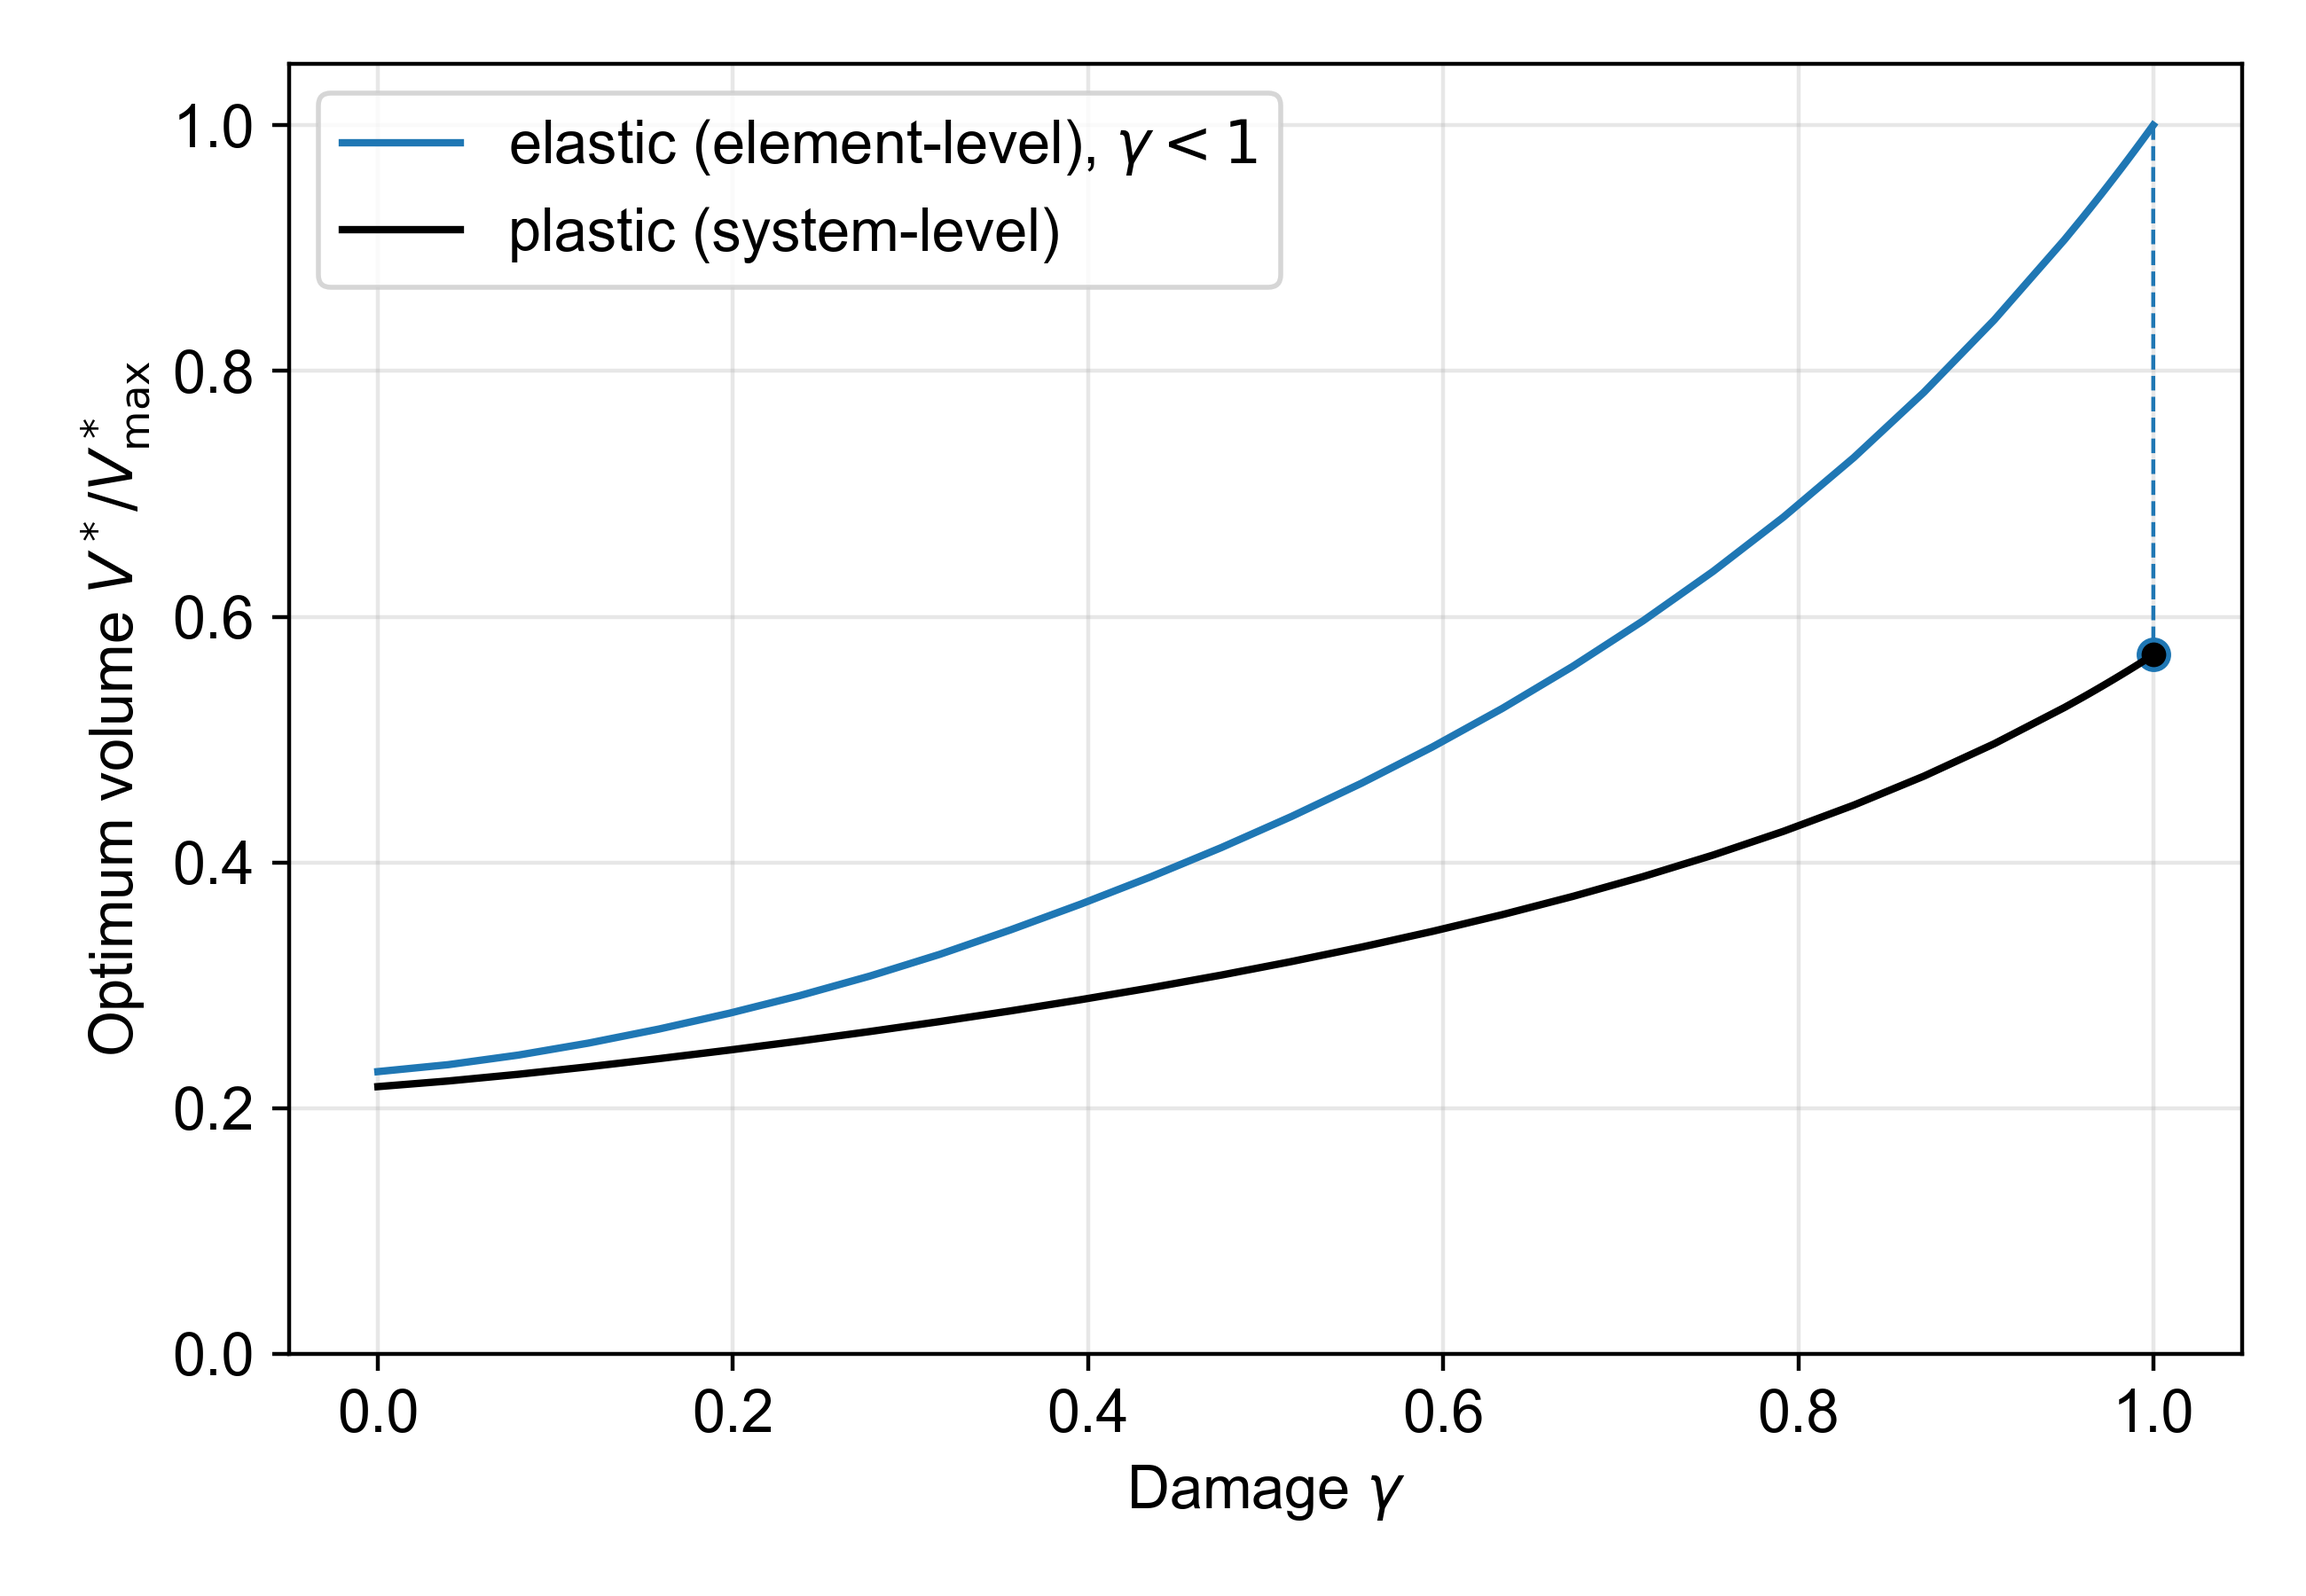
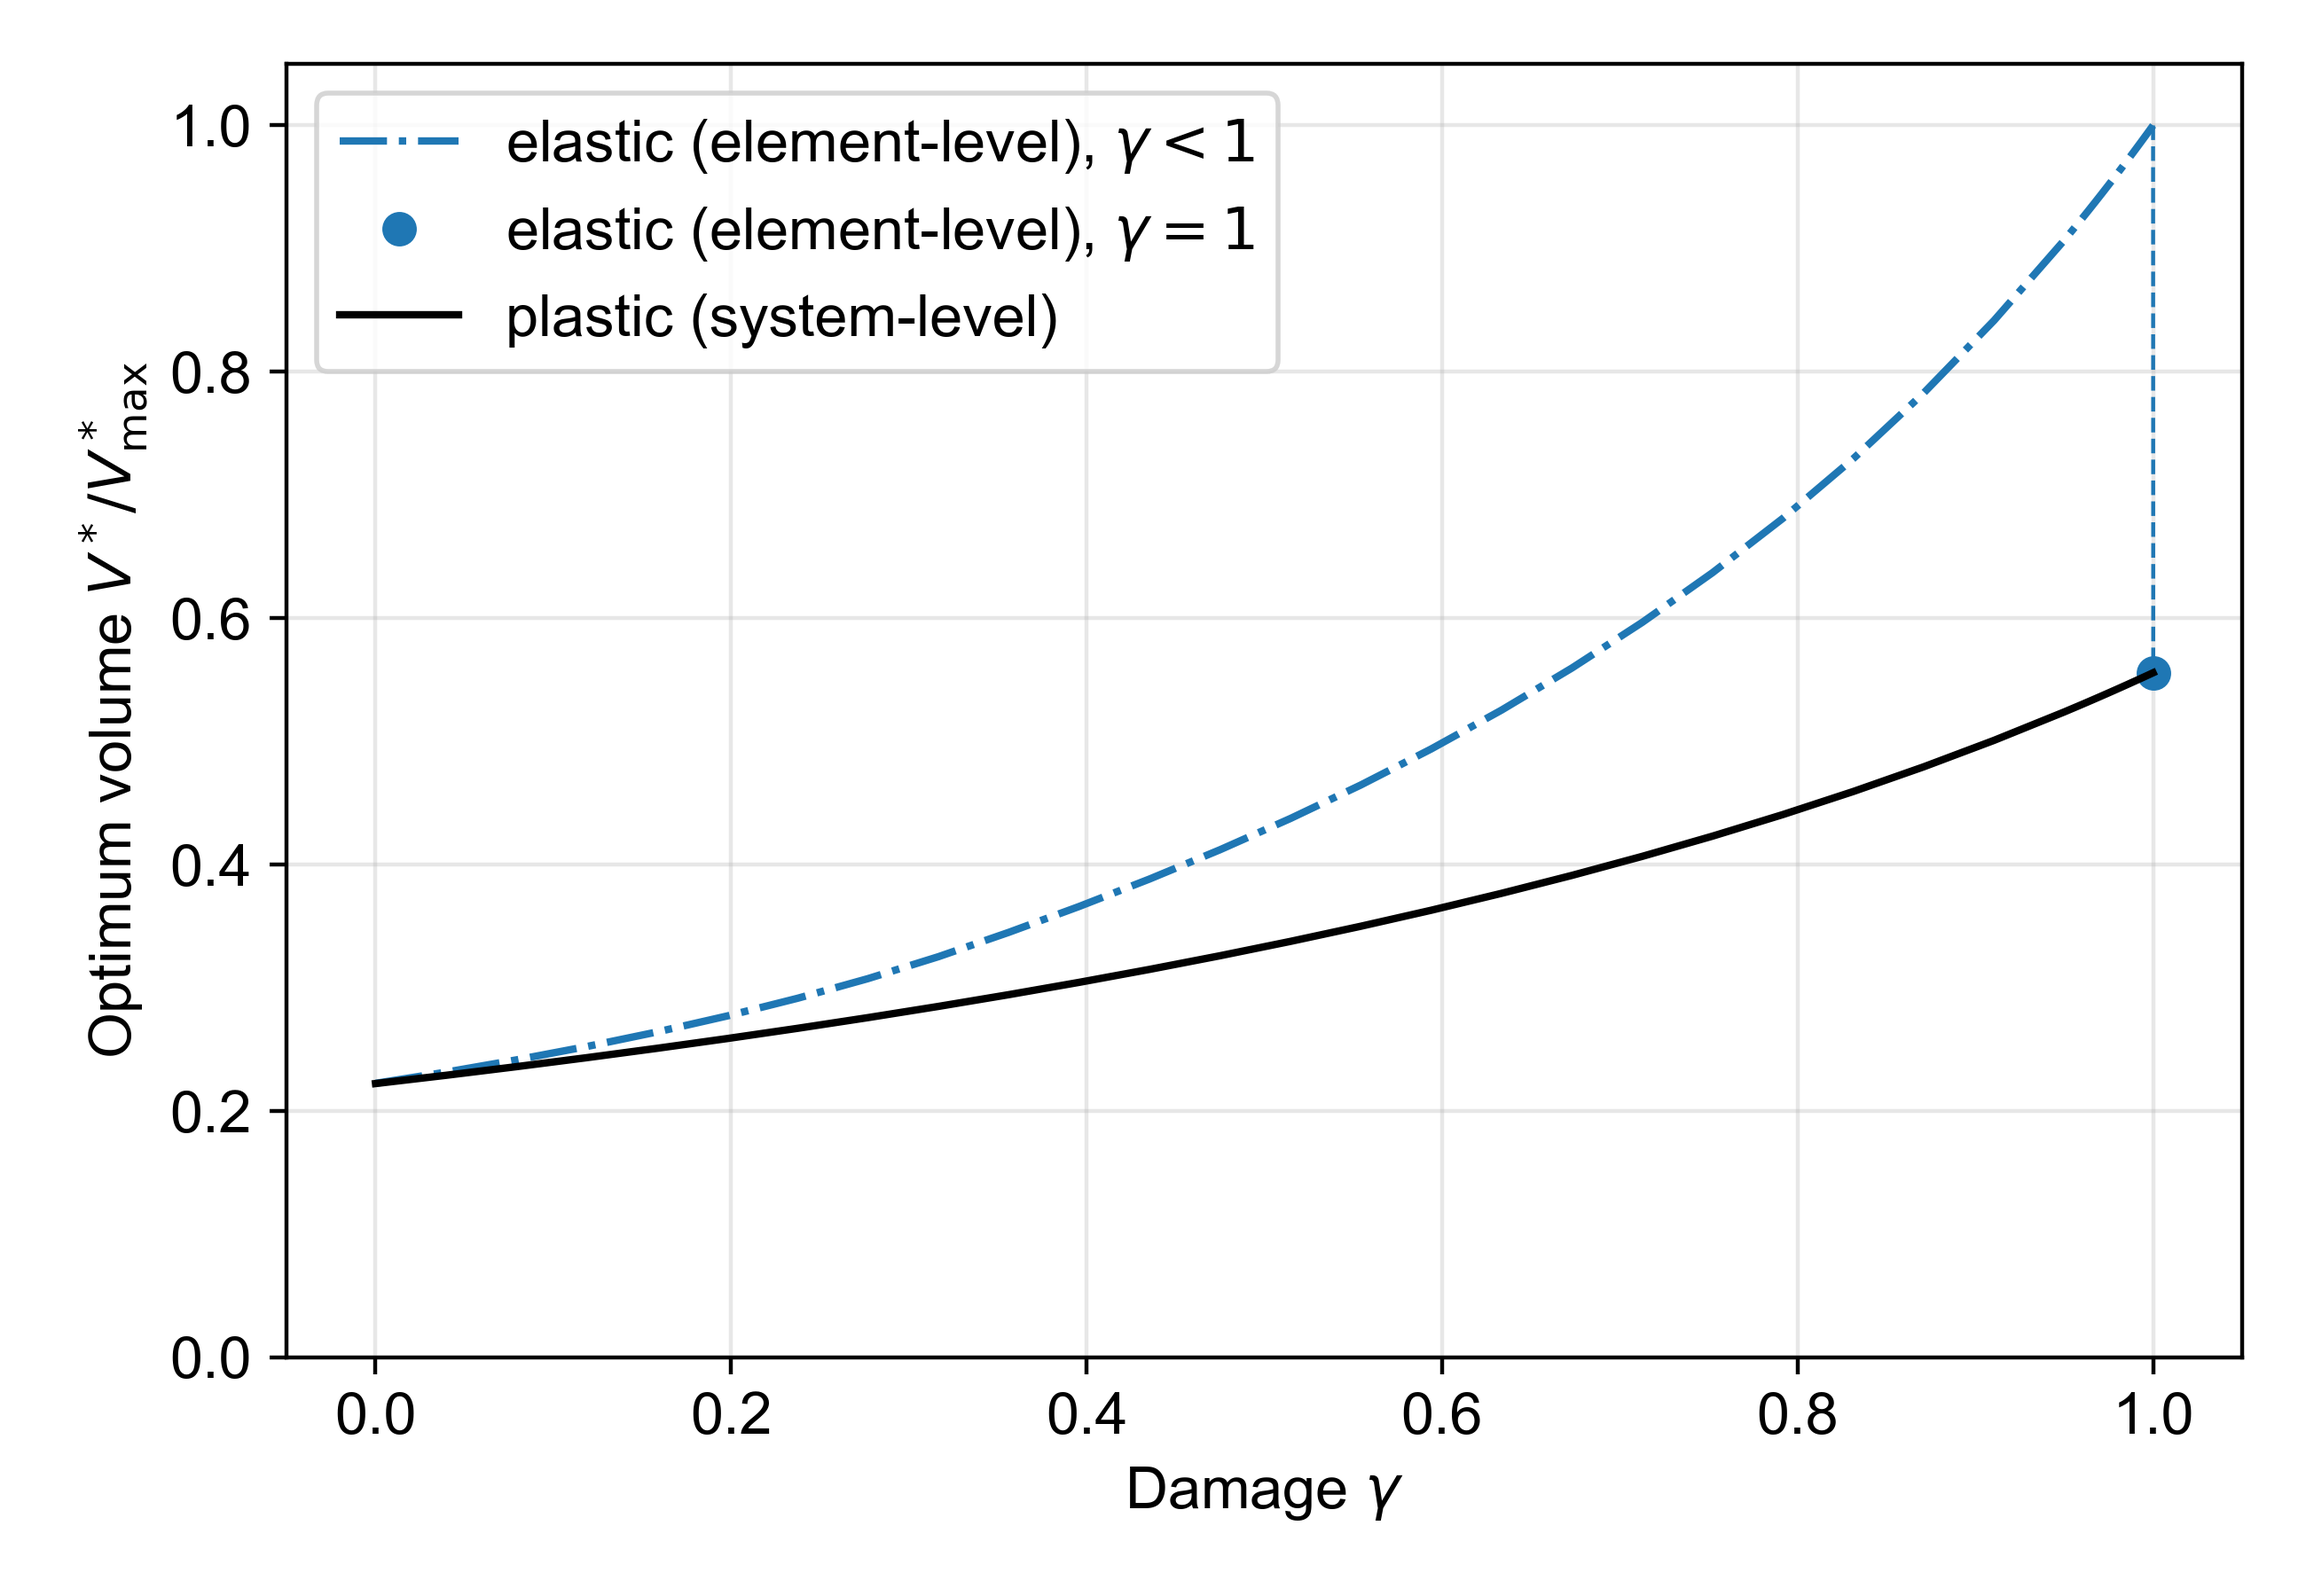
investigations

diff --git a/sysrelopt/truss_rbdo_bounds.py b/sysrelopt/truss_rbdo_bounds.py
@@ -1,3 +1,4 @@
+#type:ignore 
 """Gradient-based RBDO using Ditlevsen bounds."""
 import numpy as np
 from scipy.stats import norm
@@ -47,10 +48,13 @@ def pf_bounds(b, rho):
     return lo, hi
 
 # ---------- component-level (beta_i, rho_ij) ----------
-def comps_e(a3, gv, cY=.1, cF=.1):          # elastic, first yield
-    a3 = np.maximum(a3, 1e-6); k = a3 * (1 - gv) / L  # k = EA/L with E=1 
+def elastic_q(a3, gv):
+    a3 = np.maximum(a3, 1e-6); k = a3 * (1 - gv) / L        # k = EA/L with E=1
     K = sum(ki * np.outer(ni, ni) for ki, ni in zip(k, n))  # 2x2 stiffness matrix K 
-    q = np.abs(k * (n @ np.linalg.solve(K, [0, -1.])))  # f = [0, −1]; q = k*e (stiffness x elongation)
+    return np.abs(k * (n @ np.linalg.solve(K, [0, -1.])))   # f = [0, −1]; q = k*e (stiffness x elongation)
+
+def comps_e(a3, gv, cY=.1, cF=.1):          # elastic, first yield NOTE ELASTIC cY, cF
+    a3 = np.maximum(a3, 1e-6); q = elastic_q(a3, gv)
     R = (1 - gv) * a3; live = np.where(R > 1e-12)[0]
     b, al = [], []  
     # elastic margins M_i = R_i*Y_i − q_i*F
@@ -74,7 +78,7 @@ C_PL = np.array([[np.sqrt(2), 1.0, 0.0],
                  [0.0, 1.0, np.sqrt(2)],
                  [1/np.sqrt(2), 0.0, 1/np.sqrt(2)]])
 
-def comps_p(a3, gv, cY=.1, cF=.1):
+def comps_p(a3, gv, cY=.1, cF=.1):  # NOTE PLASTIC cY, cF
     R = (1 - gv) * np.maximum(a3, 1e-6)
     b, al = [], []
     for j in range(3):  # one mechanism per row of C_PL
@@ -110,36 +114,60 @@ def opt(comps, gamma, x0s=([3., 3.], [1., 1.], [5., 5.]), bt=3.0):
     return best
 
 if __name__ == '__main__':
-    gs = np.concatenate([np.linspace(0, .95, 25), np.linspace(.96, .9999, 12)])
-    t = time.time(); out = {}
-    for name, comps in [('elastic', comps_e), ('plastic', comps_p)]:
-        xp = [3., 3.]; vs = []
-        for g in gs:
-            r = opt(comps, g, x0s=[xp, [1., 1.], [5., 5.]])
-            xp = r.x; vs.append(r.fun)
-        out[name] = vs
-    ve1 = opt(comps_e, 1.0).fun; vp1 = opt(comps_p, 1.0).fun
-    print(f"sweep: {time.time()-t:.1f} s")
-    print("elastic:", out['elastic'][0], out['elastic'][-1], ve1)
-    print("plastic:", out['plastic'][0], out['plastic'][-1], vp1)
+    # investigate gamma=0
+    # elastic case 
+    r = opt(comps_e, 0.0)
+    a = np.array([r.x[0], r.x[1], r.x[0]]); gv = np.zeros(3)
+    q = elastic_q(a, gv); R = (1 - gv) * a
+    print(f"V* = {r.fun:.6f}")
+    print(f"areas  a = {np.array2string(a, precision=4)}")
+    print(f"forces q = {np.array2string(q, precision=4)}")
+    print(f"util q/R = {np.array2string(q / R, precision=4)}")
+    # plastic case
+    r = opt(comps_p, 0.0)
+    a = np.array([r.x[0], r.x[1], r.x[0]]); gv = np.zeros(3)
+    b, rho = comps_p(a, gv)
+    names = ['{1,2}', '{2,3}', '{1,3}']
+    print(f"V* = {r.fun:.6f}   areas a = {np.array2string(a, precision=4)}")
+    for nm, bj in zip(names, b):
+        print(f"  mechanism {nm}: beta = {bj:.4f}")
+    print(f"  beta_sys = {beta_sys(comps_p, a, gv):.4f}")
+    R = (1 - gv) * a
+    cap = C_PL @ R  # mean capacity work per mechanism, load work = 1
+    for nm, cj, bj in zip(names, cap, b):
+        print(f"  mechanism {nm}: E[M] = {cj - 1:+.4f}  (capacity {cj:.4f} vs load 1)  beta = {bj:.4f}")
 
-    # normalise by the largest optimum 
-    vmax = max(max(out['elastic']), max(out['plastic']), ve1, vp1)
-    ven = np.array(out['elastic']) / vmax; vpn = np.array(out['plastic']) / vmax
-    ve1n, vp1n = ve1 / vmax, vp1 / vmax
-    print(f"normalisation V*_max = {vmax:.6f}")
+    # # plot graphs gamma [0, 1]
+    # gs = np.concatenate([np.linspace(0, .95, 25), np.linspace(.96, .9999, 12)])
+    # t = time.time(); out = {}
+    # for name, comps in [('elastic', comps_e), ('plastic', comps_p)]:
+    #     xp = [3., 3.]; vs = []
+    #     for g in gs:
+    #         r = opt(comps, g, x0s=[xp, [1., 1.], [5., 5.]])
+    #         xp = r.x; vs.append(r.fun)
+    #     out[name] = vs
+    # ve1 = opt(comps_e, 1.0).fun; vp1 = opt(comps_p, 1.0).fun
+    # print(f"sweep: {time.time()-t:.1f} s")
+    # print("elastic:", out['elastic'][0], out['elastic'][-1], ve1)
+    # print("plastic:", out['plastic'][0], out['plastic'][-1], vp1)
 
-    fig, ax = plt.subplots(figsize=(6.5, 4.5))
-    ax.plot(gs, ven, '-', color='tab:blue',
-            label=r'elastic (element-level), $\gamma<1$')
-    ax.plot(1, ve1n, 'o', color='tab:blue')
-    ax.plot([gs[-1], 1], [ven[-1], ve1n], '--', color='tab:blue', lw=.8)
-    ax.plot(gs, vpn, 'k-', label='plastic (system-level)')
-    ax.plot(1, vp1n, 'ko', ms=4)
-    ax.set_ylim(0, 1.05)
-    ax.set_xlabel(r'Damage $\gamma$')
-    ax.set_ylabel(r'Optimum volume $V^*/V^*_{\max}$')
-    # ax.set_title(r'System-reliability constrained ($\beta_{sys}\geq 3$)')
-    ax.legend(); ax.grid(alpha=.3); plt.tight_layout()
-    plt.savefig('pfvol_gamma.png', dpi=400)
-    plt.show()
+    # # normalise by the largest optimum 
+    # vmax = max(max(out['elastic']), max(out['plastic']), ve1, vp1)
+    # ven = np.array(out['elastic']) / vmax; vpn = np.array(out['plastic']) / vmax
+    # ve1n, vp1n = ve1 / vmax, vp1 / vmax
+    # print(f"normalisation V*_max = {vmax:.6f}")
+
+    # fig, ax = plt.subplots(figsize=(6.5, 4.5))
+    # ax.plot(gs, ven, '-.', color='tab:blue',
+    #         label=r'elastic (element-level), $\gamma<1$')
+    # ax.plot(1, ve1n, 'o', color='tab:blue', label=r'elastic (element-level), $\gamma=1$')
+    # ax.plot([gs[-1], 1], [ven[-1], ve1n], '--', color='tab:blue', lw=.8)
+    # ax.plot(gs, vpn, 'k-', label='plastic (system-level)')
+    # # ax.plot(1, vp1n, 'ko', ms=4)  
+    # ax.set_ylim(0, 1.05)
+    # ax.set_xlabel(r'Damage $\gamma$')
+    # ax.set_ylabel(r'Optimum volume $V^*/V^*_{\max}$')
+    # # ax.set_title(r'System-reliability constrained ($\beta_{sys}\geq 3$)')
+    # ax.legend(); ax.grid(alpha=.3); plt.tight_layout()
+    # plt.savefig('pfvol_gamma.png', dpi=400)
+    # plt.show()

diff --git a/sysrelopt/truss_rbdo_elastic_system.py b/sysrelopt/truss_rbdo_elastic_system.py
@@ -1,3 +1,4 @@
+#type:ignore 
 """Elastic system-level definition."""
 import numpy as np, time
 import matplotlib.pyplot as plt
@@ -22,7 +23,7 @@ def elastic_q(a1, a2, gamma):
     K = sum(ki*np.outer(ni,ni) for ki,ni in zip(k, NV))
     return np.abs(k * (NV @ np.linalg.solve(K, [0,-1.])))
 
-def pf_relaxed(a1, a2, gamma, cY=.1, cF=.1):
+def pf_relaxed(a1, a2, gamma, cY=.1, cF=.1):  # NOTE ELASTIC-SYSTEM cY, cF
     f = 1 + cF*SQ2*GH_X  # Gauss-Hermite nodes, F ~ N(1, cF^2)
     tB = QP / np.array([a2, a1])  # B_j = {Y_j <= tB_j f}, bars 2,3
     pB = norm.cdf((np.outer(f, tB) - 1)/cY)
@@ -70,30 +71,51 @@ def opt_rel(gamma, x0s, bt=3.0):
 if __name__ == '__main__':
     
     gs = np.concatenate([np.linspace(0,.95,25), np.linspace(.96,.9999,12)])
-    t = time.time(); curves = {}
+    t = time.time(); curves = {}; areas = {}
     for name, comps in [('elastic', comps_e), ('plastic', comps_p)]:
-        xp=[3.,3.]; vs=[]
+        xp=[3.,3.]; vs=[]; xs=[]
         for g in gs:
-            r=opt_base(comps,g,x0s=[xp,[1.,1.],[5.,5.]]); xp=r.x; vs.append(r.fun)
-        curves[name]=np.array(vs)
-    xp=[3.,3.]; vs=[]
+            r=opt_base(comps,g,x0s=[xp,[1.,1.],[5.,5.]]); xp=r.x
+            vs.append(r.fun); xs.append(r.x)
+        curves[name]=np.array(vs); areas[name]=np.array(xs)
+    xp=[3.,3.]; vs=[]; xs=[]
     for g in gs:
-        r=opt_rel(g,[xp,[1.,1.],[5.,5.]]); xp=r.x; vs.append(r.fun)
-    curves['relaxed']=np.array(vs)
-    ve1 = opt_base(comps_e, 1.0).fun
-    vr1 = opt_rel(1.0, [[2.5,1.5],[1.,1.],[5.,5.]]).fun
+        r=opt_rel(g,[xp,[1.,1.],[5.,5.]]); xp=r.x
+        vs.append(r.fun); xs.append(r.x)
+    curves['relaxed']=np.array(vs); areas['relaxed']=np.array(xs)
+    r = opt_base(comps_e, 1.0);                        ve1, xe1 = r.fun, r.x
+    r = opt_rel(1.0, [[2.5,1.5],[1.,1.],[5.,5.]]);     vr1, xr1 = r.fun, r.x
+    ae, ap, ar = areas['elastic'], areas['plastic'], areas['relaxed']
     print(f"sweeps: {time.time()-t:.1f} s")
     print("elastic  :", curves['elastic'][0], curves['elastic'][-1], ve1)
     print("relaxed  :", curves['relaxed'][0], curves['relaxed'][-1], vr1)
     print("plastic  :", curves['plastic'][0], curves['plastic'][-1])
 
+    for idx, lab, fname in [(0, r'Optimum area $a_1^*$', 'pfarea1_gamma_elastic_system.png'),
+                            (1, r'Optimum area $a_2^*$', 'pfarea2_gamma_elastic_system.png')]:
+        fig, ax = plt.subplots(figsize=(6.5, 4.5))
+        ax.plot(gs, ae[:, idx], '-.', color='tab:blue',
+                label=r'elastic (element-level), $\gamma<1$')
+        ax.plot(1, xe1[idx], 'o', color='tab:blue', label=r'elastic, $\gamma=1$')
+        ax.plot([gs[-1], 1], [ae[-1, idx], xe1[idx]], '--', color='tab:blue', lw=.5)
+        ax.plot(gs, ar[:, idx], ':', color='tab:blue', lw=2,
+                label='elastic (system-level)')
+        ax.plot(1, xr1[idx], 's', color='tab:blue', ms=4)
+        ax.plot(gs, ap[:, idx], 'k-', label='plastic (system-level)')
+        ax.set_ylim(0, None)
+        ax.set_xlabel(r'Damage $\gamma$')
+        ax.set_ylabel(lab)
+        ax.legend(); ax.grid(alpha=.3); plt.tight_layout()
+        plt.savefig(fname, dpi=400)
+        plt.close(fig)
+
     vmax = max(curves['elastic'].max(), ve1)
     fig, ax = plt.subplots(figsize=(6.5, 4.5))
-    ax.plot(gs, curves['elastic']/vmax, '-', color='tab:blue',
+    ax.plot(gs, curves['elastic']/vmax, '-.', color='tab:blue',
             label=r'elastic (element-level), $\gamma<1$')
-    ax.plot(1, ve1/vmax, 'o', color='tab:blue')
+    ax.plot(1, ve1/vmax, 'o', color='tab:blue', label=r'elastic, $\gamma=1$')
     ax.plot([gs[-1],1], [curves['elastic'][-1]/vmax, ve1/vmax], '--',
-            color='tab:blue', lw=.8)
+            color='tab:blue', lw=.5)
     ax.plot(gs, curves['relaxed']/vmax, ':', color='tab:blue', lw=2,
             label='elastic (system-level)')
     ax.plot(1, vr1/vmax, 's', color='tab:blue', ms=4)
